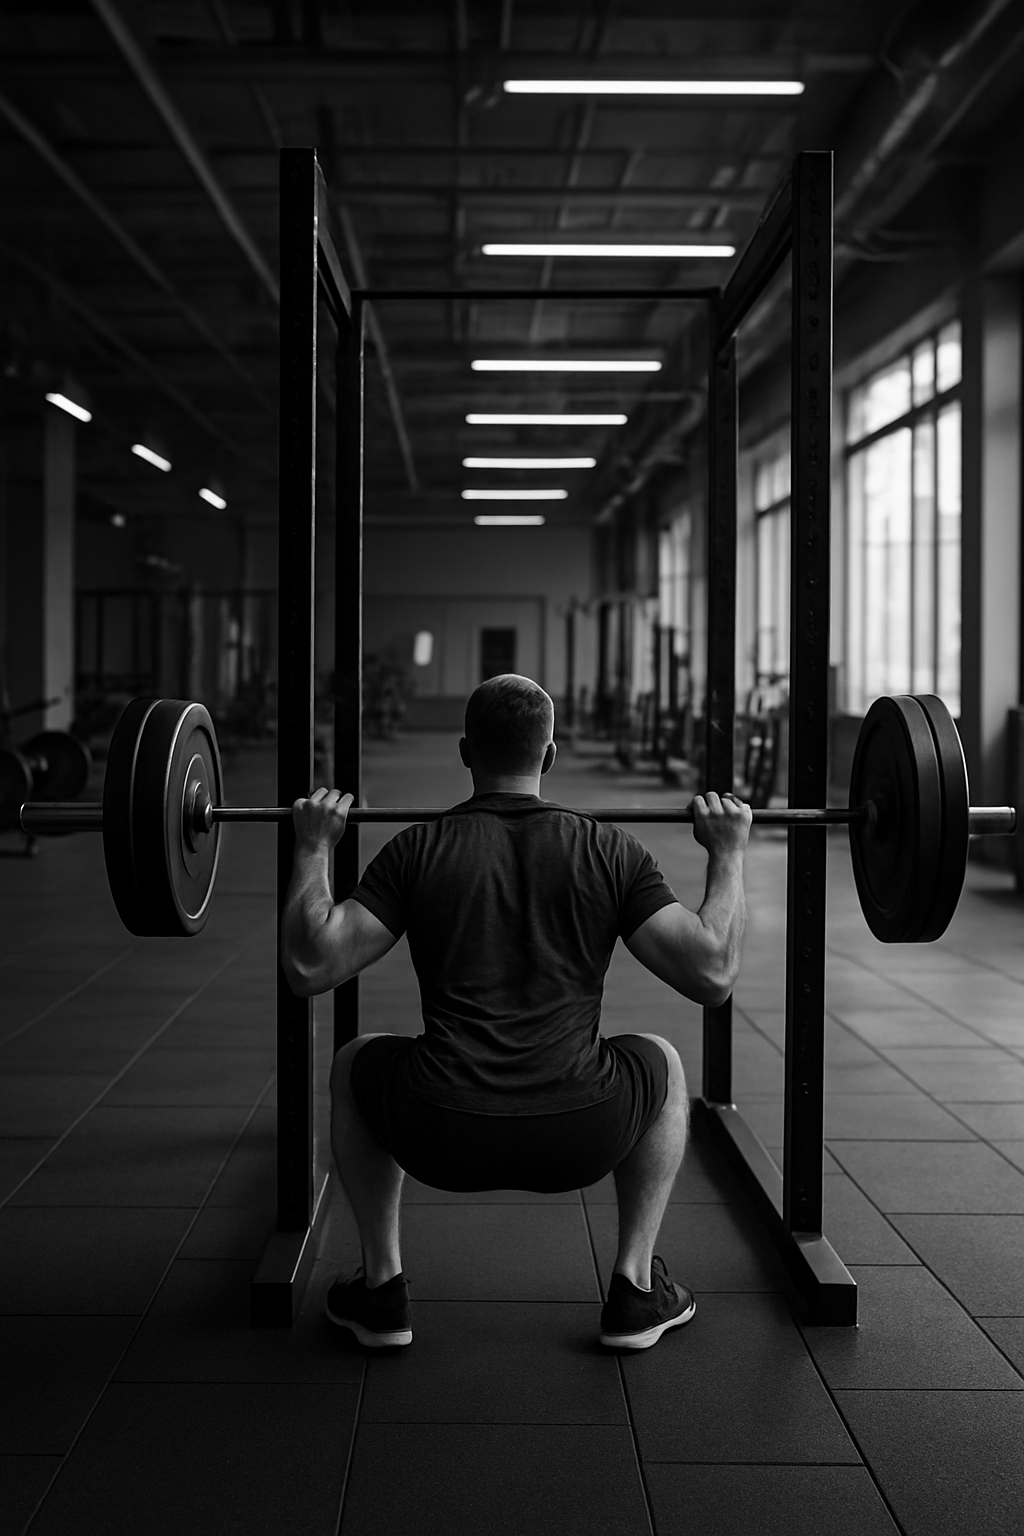
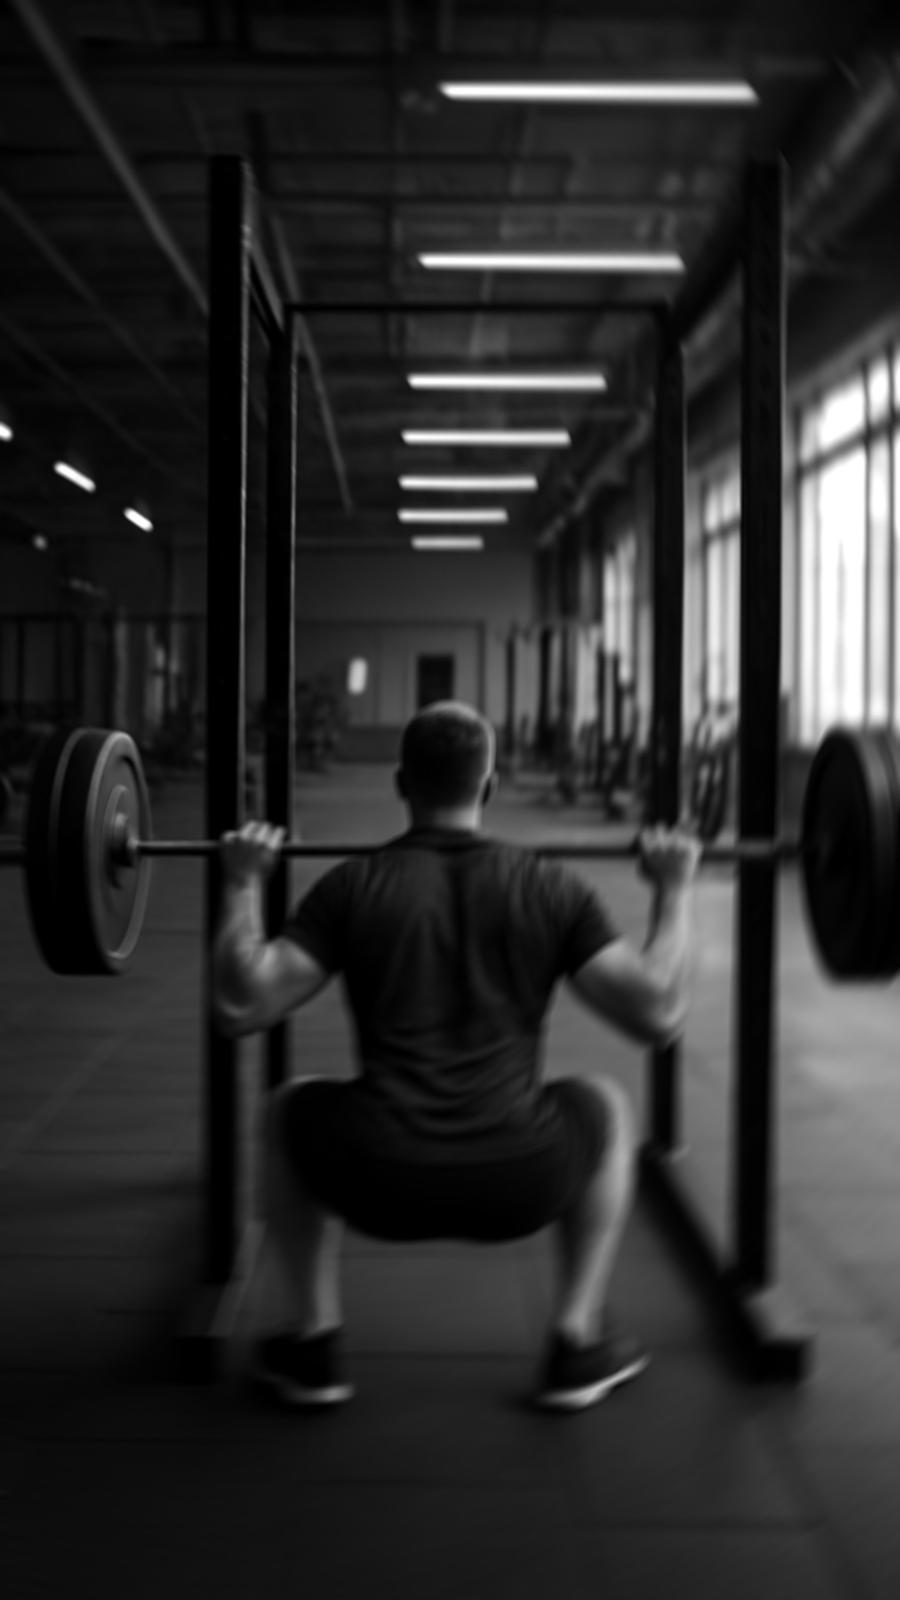
aggiustate le img in login e signup

diff --git a/bybv/lib/Pages/signup_page.dart b/bybv/lib/Pages/signup_page.dart
@@ -86,18 +86,23 @@ Future<void> registerUser() async {
 
     return Scaffold(
     backgroundColor: Colors.black,
-    appBar: AppBar(
-    backgroundColor: Colors.black,
-      
-      iconTheme: const IconThemeData(
-      color: Colors.white,
-      ),
-    ),
 
     body: Stack(
-      children: [
-          Image(image: const AssetImage('images/imgSignUp.png'),),
+      children: <Widget> [
+          Image(
+            image: const AssetImage('images/imgSignUp.png'),
+            width: double.infinity,
+            height: double.infinity,
+            fit: BoxFit.cover,
+          ),
       
+          AppBar(
+            backgroundColor: Colors.transparent,
+              iconTheme: const IconThemeData(
+              color: Colors.white,
+              ),
+            ),
+
         Column(
         children: [
           Padding(
@@ -120,7 +125,7 @@ Future<void> registerUser() async {
               bottom: screenHeight *0.17),
             child: Container(
                 decoration: BoxDecoration(
-                  color: Colors.black,              // colore dello sfondo
+                  color: Colors.transparent,              // colore dello sfondo
                   border: Border.all(
                   color: Colors.white,            // colore del bordo
                   width: 2,                      // spessore
@@ -132,7 +137,7 @@ Future<void> registerUser() async {
                 children:[
                   SizedBox(height: screenHeight * 0.03), 
                   Text(
-                      "Registrazione",
+                      "Registrati",
                       style: TextStyle(
                         fontFamily: 'Poppins-Bold',
                         color: Colors.white,
@@ -273,6 +278,7 @@ Future<void> registerUser() async {
                             style: TextStyle(
                               color:Colors.white,
                               fontFamily: 'Poppins-Bold',
+                              fontWeight: FontWeight.bold,
                               // fontWeight: FontWeight.bold,
                             ),
                           ),

diff --git a/bybv/lib/Pages/login_page.dart b/bybv/lib/Pages/login_page.dart
@@ -69,13 +69,23 @@ class _LoginPageState extends State<LoginPage> {
 
     return Scaffold(
       backgroundColor: Colors.black,
-      appBar: AppBar(
-        backgroundColor: Colors.black,
-        iconTheme: const IconThemeData(color: Colors.white),
-      ),
+     
       body: Stack(
         children: <Widget>[
-          Image(image: const AssetImage('images/imgLogIn.png'),),
+          Image(
+            image: const AssetImage('images/imgLogIn.png'),
+            width: double.infinity,
+            height: double.infinity,
+            fit: BoxFit.cover,
+          ),
+          
+          AppBar(
+            
+            backgroundColor: Colors.transparent,
+            iconTheme: const IconThemeData(
+              color: Colors.white
+              ),
+          ),
 
           Column(
             children: [
@@ -99,7 +109,7 @@ class _LoginPageState extends State<LoginPage> {
                 ),
                 child: Container(
                   decoration: BoxDecoration(
-                    color: Colors.black,
+                    color: Colors.transparent,
                     border: Border.all(color: Colors.white, width: 2),
                     borderRadius: BorderRadius.circular(10),
                   ),
